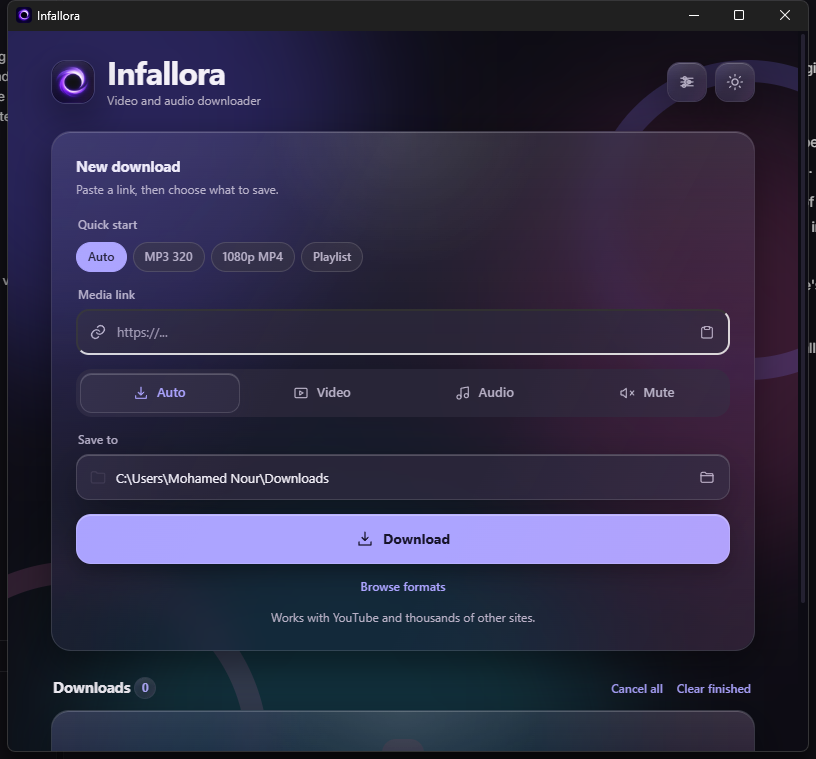
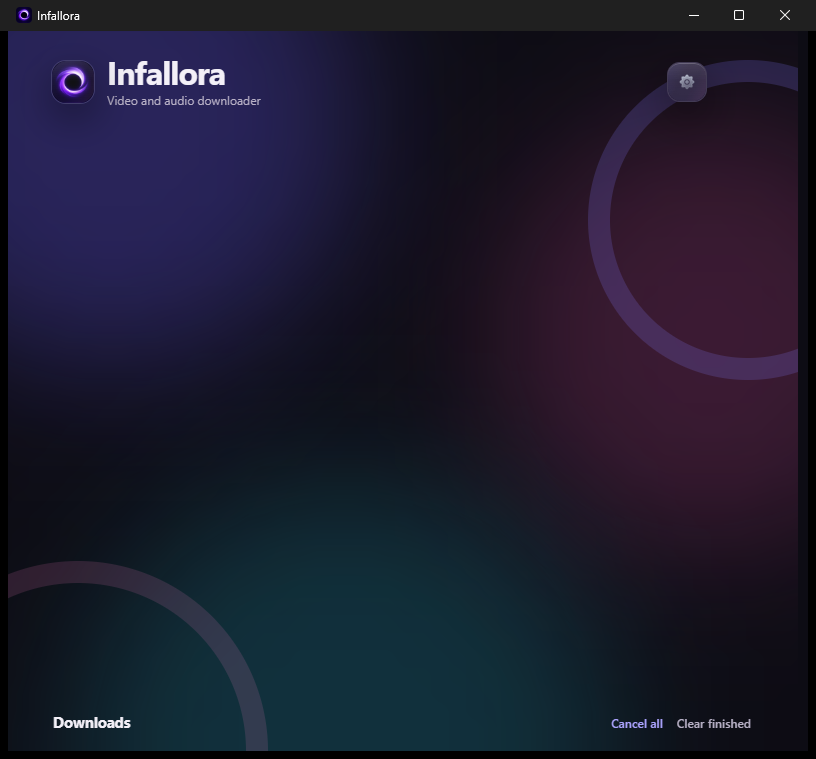
docs: cleaner README with full-width fresh screenshots

diff --git a/README.md b/README.md
@@ -5,258 +5,116 @@
 <h1 align="center">Infallora</h1>
 
 <p align="center">
-  A fast, private media downloader for Windows and Linux. Liquid-glass UI, playlist support,
+  A fast, private media downloader for Windows and Linux. Liquid-glass UI, playlists,
   full format control, nine languages, and self-updating engines.
-</p>
-
-<p align="center">
-  <img src="docs/icons/windows.svg" alt="Windows" width="24">
-  <img src="docs/icons/rust.svg" alt="Rust" width="20">
-  <img src="docs/icons/tauri.svg" alt="Tauri" width="24">
-  <img src="docs/icons/ffmpeg.svg" alt="ffmpeg" width="24">
-  <img src="docs/icons/youtube.svg" alt="YouTube" width="24">
-  <img src="docs/icons/github.svg" alt="GitHub" width="20">
-  <img src="docs/icons/discord.svg" alt="Discord" width="24">
-  <img src="docs/icons/telegram.svg" alt="Telegram" width="24">
-  <img src="docs/icons/x.svg" alt="X" width="20">
 </p>
 
 <p align="center">
   <a href="https://github.com/monourar/infallora/releases/latest"><img src="https://img.shields.io/github/v/release/monourar/infallora?style=flat-square&color=7C3AED" alt="Latest release"></a>
   <a href="https://github.com/monourar/infallora/releases"><img src="https://img.shields.io/github/downloads/monourar/infallora/total?style=flat-square&color=7C3AED" alt="Downloads"></a>
   <img src="https://img.shields.io/badge/platform-Windows%20%7C%20Linux-0078D6?style=flat-square" alt="Windows and Linux">
-  <img src="https://img.shields.io/badge/built%20with-Rust%20%2B%20Tauri-orange?style=flat-square" alt="Rust and Tauri">
   <a href="LICENSE"><img src="https://img.shields.io/badge/license-MIT-blue?style=flat-square" alt="License"></a>
 </p>
 
 ---
 
-## Contents
-
-- [Download](#download)
-- [Screenshots](#screenshots)
-- [Features](#features)
-- [Quick start](#quick-start)
-- [Where things are stored](#where-things-are-stored)
-- [Privacy](#privacy)
-- [Build from source](#build-from-source)
-- [Project layout](#project-layout)
-- [FAQ](#faq)
-- [Contributing](#contributing)
-- [License](#license)
-
----
-
 ## Download
 
-Get the latest installer from **[Releases](https://github.com/monourar/infallora/releases/latest)**.
+Get the latest installer from **[Releases](https://github.com/monourar/infallora/releases/latest)**:
 
-1. Download `Infallora_x.x.x_x64-setup.exe`.
-2. Run it. If Windows SmartScreen appears, click **More info → Run anyway** — the installer is unsigned (see [FAQ](#faq)).
-3. Open Infallora and paste a link.
+- **Windows** — `Infallora_x.x.x_x64-setup.exe`
+- **Linux** — `Infallora_x.x.x_amd64.AppImage` or `.deb`
 
-Updates are checked on startup, or manually in **Settings → updates**. The app and its yt-dlp engine both update themselves.
+If Windows SmartScreen warns, click **More info → Run anyway**. The installer is unsigned, but all update manifests are signed and verified automatically.
 
-> Requires **Windows 10/11** with [WebView2](https://developer.microsoft.com/microsoft-edge/webview2/) (preinstalled on most systems).
+> Requires WebView2 on Windows (preinstalled on most systems).
 
 ---
 
 ## Screenshots
 
-| Main window | Settings |
-|:---:|:---:|
-| ![Infallora main window](docs/main.png) | ![Infallora settings](docs/settings.png) |
+![Infallora main window](docs/main.png)
 
-Arabic interface with automatic RTL layout:
+![Infallora settings](docs/settings.png)
 
-![Infallora in Arabic](docs/arabic.png)
+![Infallora in Arabic with RTL layout](docs/arabic.png)
 
 ---
 
 ## Features
 
-**Downloading**
-
-<img src="docs/icons/youtube.svg" alt="" width="16"> Thousands of sites via [yt-dlp](https://github.com/yt-dlp/yt-dlp)
-<img src="docs/icons/ffmpeg.svg" alt="" width="16"> Quality up to 8K/4K, down to *smallest file*
-
-<img src="docs/icons/ffmpeg.svg" alt="" width="16"> Container (MP4/WebM/MKV), codec (H.264/AV1/VP9), bitrate and audio format control
-- Multiple links at once — paste several URLs, one per line
-- Playlist browsing and YouTube keyword search with thumbnails, select all/none, one row per video
-- Subtitles (10 language shortcuts + any ISO code), embedded metadata, thumbnail sidecars
-- Automatic retry on transient HTTP 403 errors
-
-**Experience**
-- Liquid-glass interface with light/dark mode, seven color themes (Violet, Ocean, Ember, Mint, Rose, Slate, Amber) and reduced motion
-- Dynamic Island-style download activity with long-press expand and queue peek
-- Nine languages — English, العربية, Français, Español, Deutsch, Türkçe, Português, Русский, 中文 — with RTL mirroring for Arabic
-- System tray: closing the window hides to tray while downloads continue
-- Native Windows notifications on completion or failure
-- Persistent download history across restarts
-- Separate **Open file** and **Open folder** actions on each download
-
-**Maintenance**
-- Signed self-updates via GitHub Releases
-- Automatic yt-dlp updates on startup, plus an on-demand button
-- `infallora://<url>` deep links for browser integration
-- Automatic `cookies.txt` detection for private content
-- No account, telemetry, upload or cloud — everything runs locally
+- **Thousands of sites** via [yt-dlp](https://github.com/yt-dlp/yt-dlp)
+- **Quality up to 8K** — or smallest file; container, codec, bitrate and audio format control
+- **Multiple links at once** — paste several URLs, one per line
+- **Playlists and YouTube search** — browse with thumbnails, multi-select, one row per video
+- **Subtitles, metadata and thumbnails** — plus embedded audio tracks
+- **Liquid-glass UI** — light/dark, seven color themes, reduced motion, dynamic download island
+- **Nine languages** — English, العربية, Français, Español, Deutsch, Türkçe, Português, Русский, 中文, with RTL for Arabic
+- **System tray** — closing hides to tray; downloads keep running
+- **Notifications** — native toast on completion, plus an update popup with auto-install toggle
+- **Persistent history** — survives restarts; Open file / Open folder on each row
+- **Self-updating** — app and yt-dlp update automatically
+- **Auto-update engines** — yt-dlp refreshed on startup
+- **Local only** — no account, telemetry, upload or cloud
 
 ---
 
 ## Quick start
 
-1. Paste a video or playlist URL into **Media link**.
+1. Paste a video URL, playlist URL, or search term into **Media link**.
 2. Pick a preset: **Auto**, **MP3 320**, **1080p MP4**, or **Playlist**.
-3. Choose a folder and click **Download**.
+3. Choose a folder and click **Download** (`Ctrl+Enter` also works).
 
-Use **Browse formats** for per-format details before downloading.
+For playlists and search results, tick the videos you want — selected rows highlight — then press **Download (n)**. Quality and container can be chosen inside the panel.
 
-### Playlists
+For private videos, export `cookies.txt` from your signed-in browser and place it next to `Infallora.exe` (auto-detected), or pick it in **Settings → advanced → cookies file**.
 
-Paste a playlist link — or just type a search term — and Infallora lists every entry with thumbnail and duration. Search results come from YouTube. Use **all** / **none** or tick individual videos (selected rows highlight with a checkmark), then press **Download (n)** — only selected videos are queued. Quality and container can be picked right inside the panel.
-
-### Private or members-only videos
-
-Public videos need no setup. For restricted content:
-
-1. Install the **Get cookies.txt LOCALLY** browser extension.
-2. While signed in, export cookies as `cookies.txt`.
-3. Place the file **next to `Infallora.exe`** (auto-detected), or select it in **Settings → advanced → cookies file**.
-
-Infallora cannot bypass authentication — it only accesses content your browser session can already reach.
-
-### Browser links
-
-The installer registers the `infallora://` scheme. A link like this opens the app and fills the URL field automatically:
-
-```
-infallora://https://www.youtube.com/watch?v=dQw4w9WgXcQ
-```
-
-### Language
-
-**Settings → appearance → language** offers *system* plus all nine languages. The layout mirrors automatically in Arabic; *system* follows your Windows language.
-
----
-
-## Where things are stored
-
-| Item | Location |
-|---|---|
-| Preferences | `%APPDATA%\Infallora\settings.json` |
-| Download history | `%APPDATA%\Infallora\downloads.json` |
-| Cookies (auto-detected) | Next to `Infallora.exe`, or in your Downloads folder |
-| Bundled engines | Install folder, under `_up_` (yt-dlp, ffmpeg, ffprobe) |
-
-Deleting the two JSON files resets preferences and history. Downloaded media stays wherever you saved it.
+> Infallora only accesses content your browser session can already reach. It cannot bypass paywalls or region locks.
 
 ---
 
 ## Privacy
 
-Everything runs on your PC. Infallora drives the bundled yt-dlp and ffmpeg binaries, writes files only to your chosen folder, and stores preferences locally. There is no account, analytics, or upload path.
+Everything runs on your PC. Files go only to the folder you choose. Preferences and history stay in `%APPDATA%\Infallora\`. There is no account, analytics, or upload path.
 
----
-
-## Build from source
-
-Requirements: Windows 10/11, [Rust](https://rustup.rs/), Node.js 20+, WebView2.
-
-```powershell
-git clone https://github.com/monourar/infallora.git
-cd infallora
-npm install --no-save @tauri-apps/cli
-```
-
-Download the engines into the repository root:
-
-```powershell
-curl.exe -L -o yt-dlp.exe https://github.com/yt-dlp/yt-dlp/releases/latest/download/yt-dlp.exe
-curl.exe -L -o ffmpeg.zip https://www.gyan.dev/ffmpeg/builds/ffmpeg-release-essentials.zip
-# extract ffmpeg.exe and ffprobe.exe from the zip into this folder
-```
-
-Build the signed installer:
-
-```powershell
-npx tauri build
-```
-
-Output: `src-tauri/target/release/bundle/nsis/`. Signing needs `TAURI_SIGNING_PRIVATE_KEY` and `TAURI_SIGNING_PRIVATE_KEY_PASSWORD` (see [RELEASING.md](RELEASING.md)); without them the app builds but no update signature is produced.
-
-Quick debug build without bundling:
-
-```powershell
-cd src-tauri
-cargo build
-.\target\debug\infallora.exe
-```
-
-> No MSVC linker? Use the GNU toolchain:
-> `cargo +stable-x86_64-pc-windows-gnu build --release`.
-
----
-
-## Project layout
-
-```
-dist/            HTML, CSS and JS interface (i18n, updater, engine UI)
-src-tauri/       Rust backend and Tauri configuration
-  src/main.rs    downloads, settings, playlists, cookies, tray, deep links
-  icons/         squircle app icon
-  capabilities/  plugin permissions
-docs/            README screenshots
-RELEASING.md     signed release process
-NOTICE.md        third-party license notice
-```
-
-Built with <img src="docs/icons/rust.svg" alt="Rust" width="14"> **Rust** and <img src="docs/icons/tauri.svg" alt="Tauri" width="16"> **Tauri**. The UI polls the backend for progress, keeping the implementation small. Cancelling stops yt-dlp and its child processes; transient 403 failures retry automatically.
+Infallora only accesses content your browser session can already reach. It cannot bypass paywalls or region locks.
 
 ---
 
 ## FAQ
 
-<img src="docs/icons/windows.svg" alt="" width="16"> **Why does Windows warn about the installer?**
-Infallora is not code-signed, so SmartScreen warns for any unsigned app. Verify you downloaded from this repository's Releases page, then click **More info → Run anyway**. The *update manifest* is signed, so future updates verify automatically.
+**Why does a video fail with 403?**
+YouTube's CDN sometimes rejects a stream token. Infallora retries up to three times. If it still fails, the video is usually account-restricted — add a cookies file.
 
 **Where did the window go?**
-Closing the window hides Infallora to the system tray — downloads keep running. Click the tray icon or choose **Show** from its menu to restore. Choose **Quit** to exit.
-
-<img src="docs/icons/youtube.svg" alt="" width="16"> **Why does a video fail with 403?**
-YouTube's CDN sometimes rejects a stream token. Infallora retries up to three times with a short backoff. If it still fails, the video is usually account-restricted — add a cookies file.
+Closing hides Infallora to the system tray. Click the tray icon or choose **Show** to restore; **Quit** exits.
 
 **Do I need to update yt-dlp myself?**
-No. It updates automatically on startup. You can also run **Settings → updates → engines → update yt-dlp** at any time. Change *update engines on startup* to *off* to disable this.
+No — it updates automatically on startup. Toggle it in **Settings → updates → engines**.
 
 **Does it work offline?**
-No. Downloads and update checks need a connection, but settings and files stay local.
-
-**Can it bypass paywalls or region locks?**
-No. It only accesses content your browser session can already access.
+No. Downloads and update checks need a connection; your files and settings stay local.
 
 ---
 
-## Contributing
+## Build from source
 
-Issues and pull requests are welcome. For a new translation, add a language table to `dist/translations.js` and an option to the language selector in `dist/index.html` + `dist/settings.js`. Run `node --check` on changed JS before opening a PR.
+```powershell
+git clone https://github.com/monourar/infallora.git
+cd infallora
+npm install --no-save @tauri-apps/cli
+# download yt-dlp.exe, ffmpeg.exe and ffprobe.exe into the repo root
+npx tauri build
+```
+
+Signed builds need `TAURI_SIGNING_PRIVATE_KEY` and `TAURI_SIGNING_PRIVATE_KEY_PASSWORD` secrets (see [RELEASING.md](RELEASING.md)). Without them the app builds but produces no update signature.
 
 ---
 
 ## License
 
-Infallora's source is [MIT licensed](LICENSE). Release bundles include third-party engines with their own licenses — see [NOTICE.md](NOTICE.md) and the bundled `LICENSE-GPLv3.txt`. Respect the terms of service of sites you use and the rights of creators.
-
----
-
-## Links
-
-| | |
-|:---:|---|
-| <img src="docs/icons/github.svg" alt="" width="18"> | [Download](https://github.com/monourar/infallora/releases/latest) · [Report an issue](https://github.com/monourar/infallora/issues) · [Release process](RELEASING.md) · [Licensing notice](NOTICE.md) |
-| <img src="docs/icons/discord.svg" alt="" width="18"> | Discord community — *coming soon* |
-| <img src="docs/icons/telegram.svg" alt="" width="18"> | Telegram channel — *coming soon* |
+Infallora's source is [MIT licensed](LICENSE). Release bundles include third-party engines with their own licenses — see [NOTICE.md](NOTICE.md) and the bundled `LICENSE-GPLv3.txt`.
 
 <p align="center">
-  <sub>Made with <img src="docs/icons/rust.svg" alt="Rust" width="11"> Rust and <img src="docs/icons/tauri.svg" alt="Tauri" width="12"> Tauri · Icons by <a href="https://thesvg.org">theSVG</a></sub>
+  <sub>Made with Rust and Tauri · Icons by <a href="https://thesvg.org">theSVG</a></sub>
 </p>
